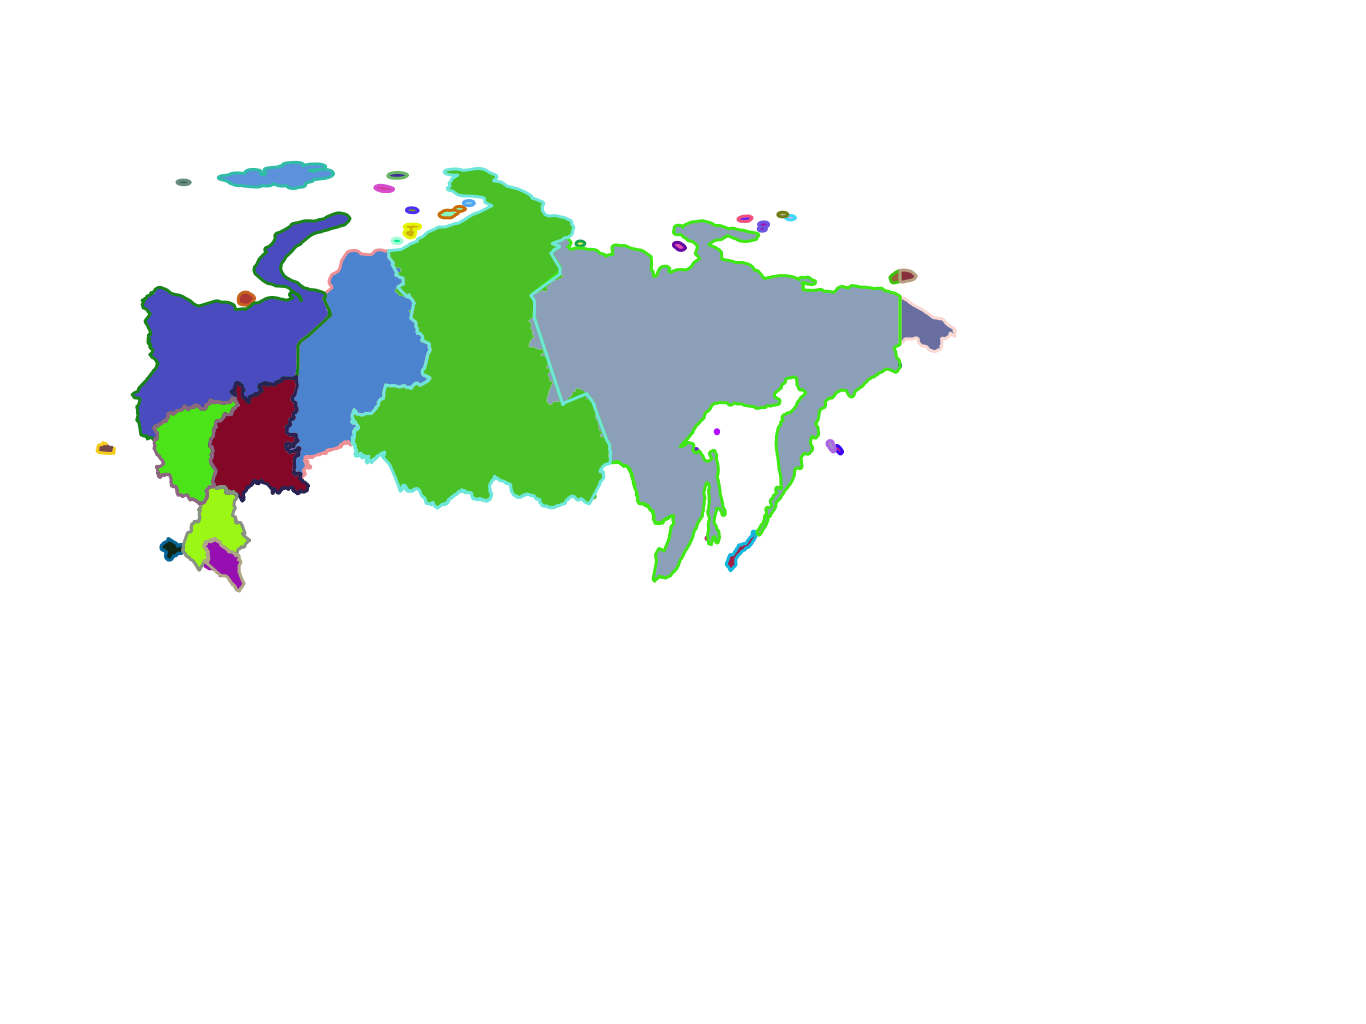
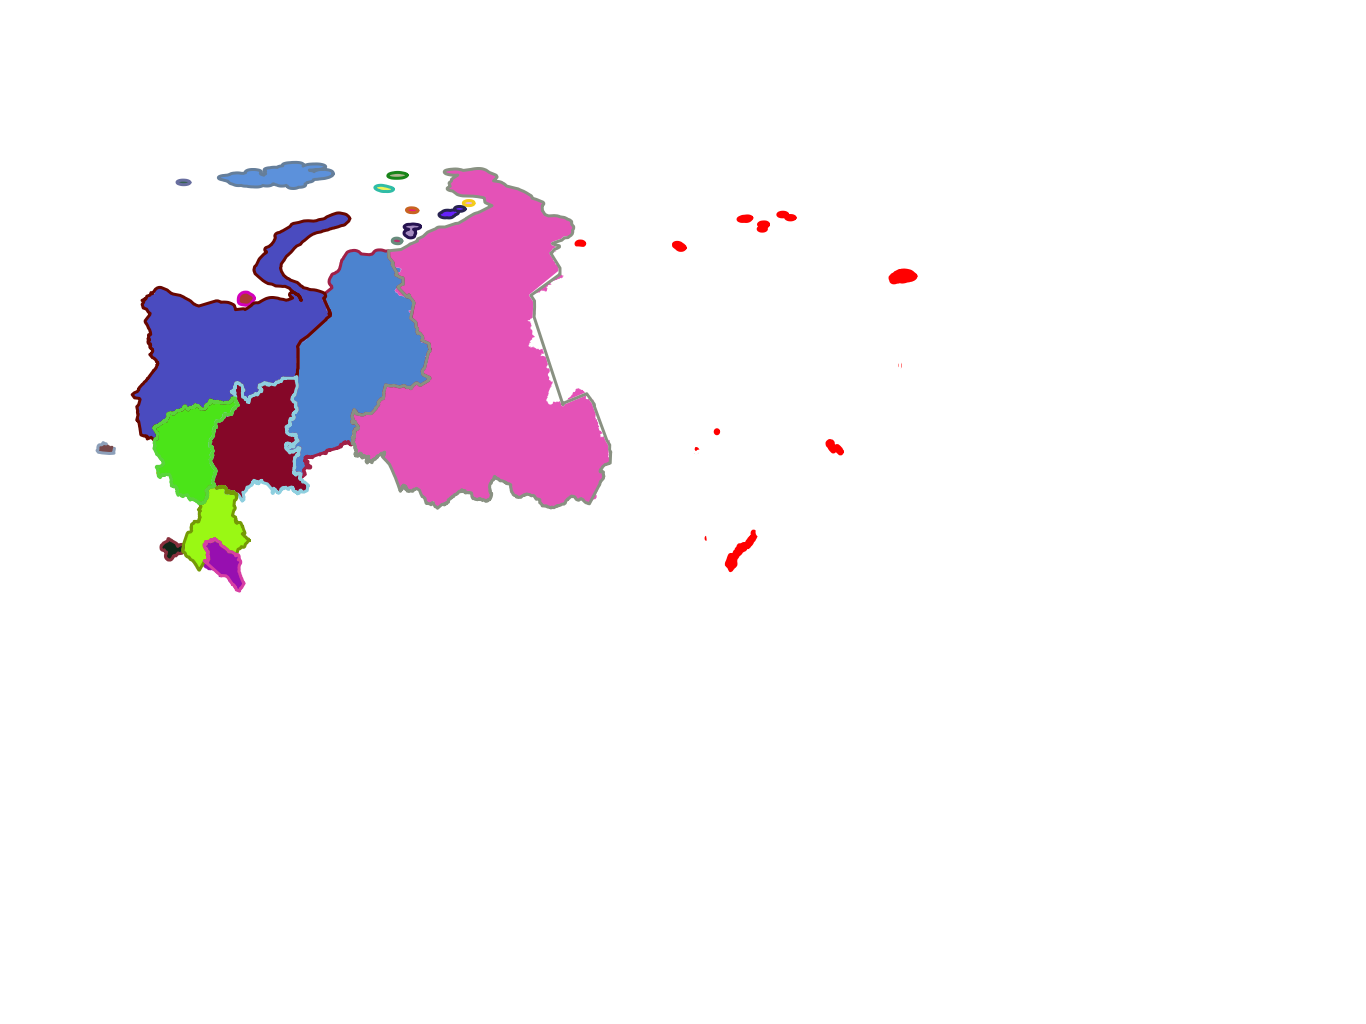
закрасил кусок вышедший за меридиан в один цвет с основным

Changed region(s): [[0.0922, 0.1562, 0.7072, 0.5938]]

diff --git a/main.go b/main.go
@@ -20,14 +20,22 @@ func main() {
 	scale := 5.0
 
 	//рисуем полигоны
-	forEachPolygon(dc, coordinates, func(polygonCoordinates [][]float64) {
-		dc.SetRGB(rand.Float64(), rand.Float64(), rand.Float64())
+	forEachPolygon(dc, coordinates, func(polygonCoordinates [][]float64, i int, j int) {
+		if i == 10 {
+			dc.SetRGB(float64(i/10), float64(j/15), float64(i*j/150))
+		} else {
+			dc.SetRGB(rand.Float64(), rand.Float64(), rand.Float64())
+		}
 		drawByPolygonCoordinates(dc, polygonCoordinates, scale, dc.Fill)
 	})
 	//рисуем контуры полигонов
-	forEachPolygon(dc, coordinates, func(polygonCoordinates [][]float64) {
+	forEachPolygon(dc, coordinates, func(polygonCoordinates [][]float64, i int, j int) {
+		if i == 10 {
+			dc.SetRGB(float64(i/10), float64(j/15), float64(i*j/150))
+		} else {
+			dc.SetRGB(rand.Float64(), rand.Float64(), rand.Float64())
+		}
 		dc.SetLineWidth(3)
-		dc.SetRGB(rand.Float64(), rand.Float64(), rand.Float64())
 		drawByPolygonCoordinates(dc, polygonCoordinates, scale, dc.Stroke)
 	})
 
@@ -54,10 +62,10 @@ func getMultyCoordinates() ([][][][][]float64, error) {
 	return coordinates, nil
 }
 
-func forEachPolygon(dc *gg.Context, coordinates [][][][][]float64, callback func([][]float64)) {
+func forEachPolygon(dc *gg.Context, coordinates [][][][][]float64, callback func([][]float64, int, int)) {
 	for i := 0; i < len(coordinates); i++ {
 		for j := 0; j < len(coordinates[i]); j++ {
-			callback(coordinates[i][j][0])
+			callback(coordinates[i][j][0], i, j)
 		}
 	}
 }
